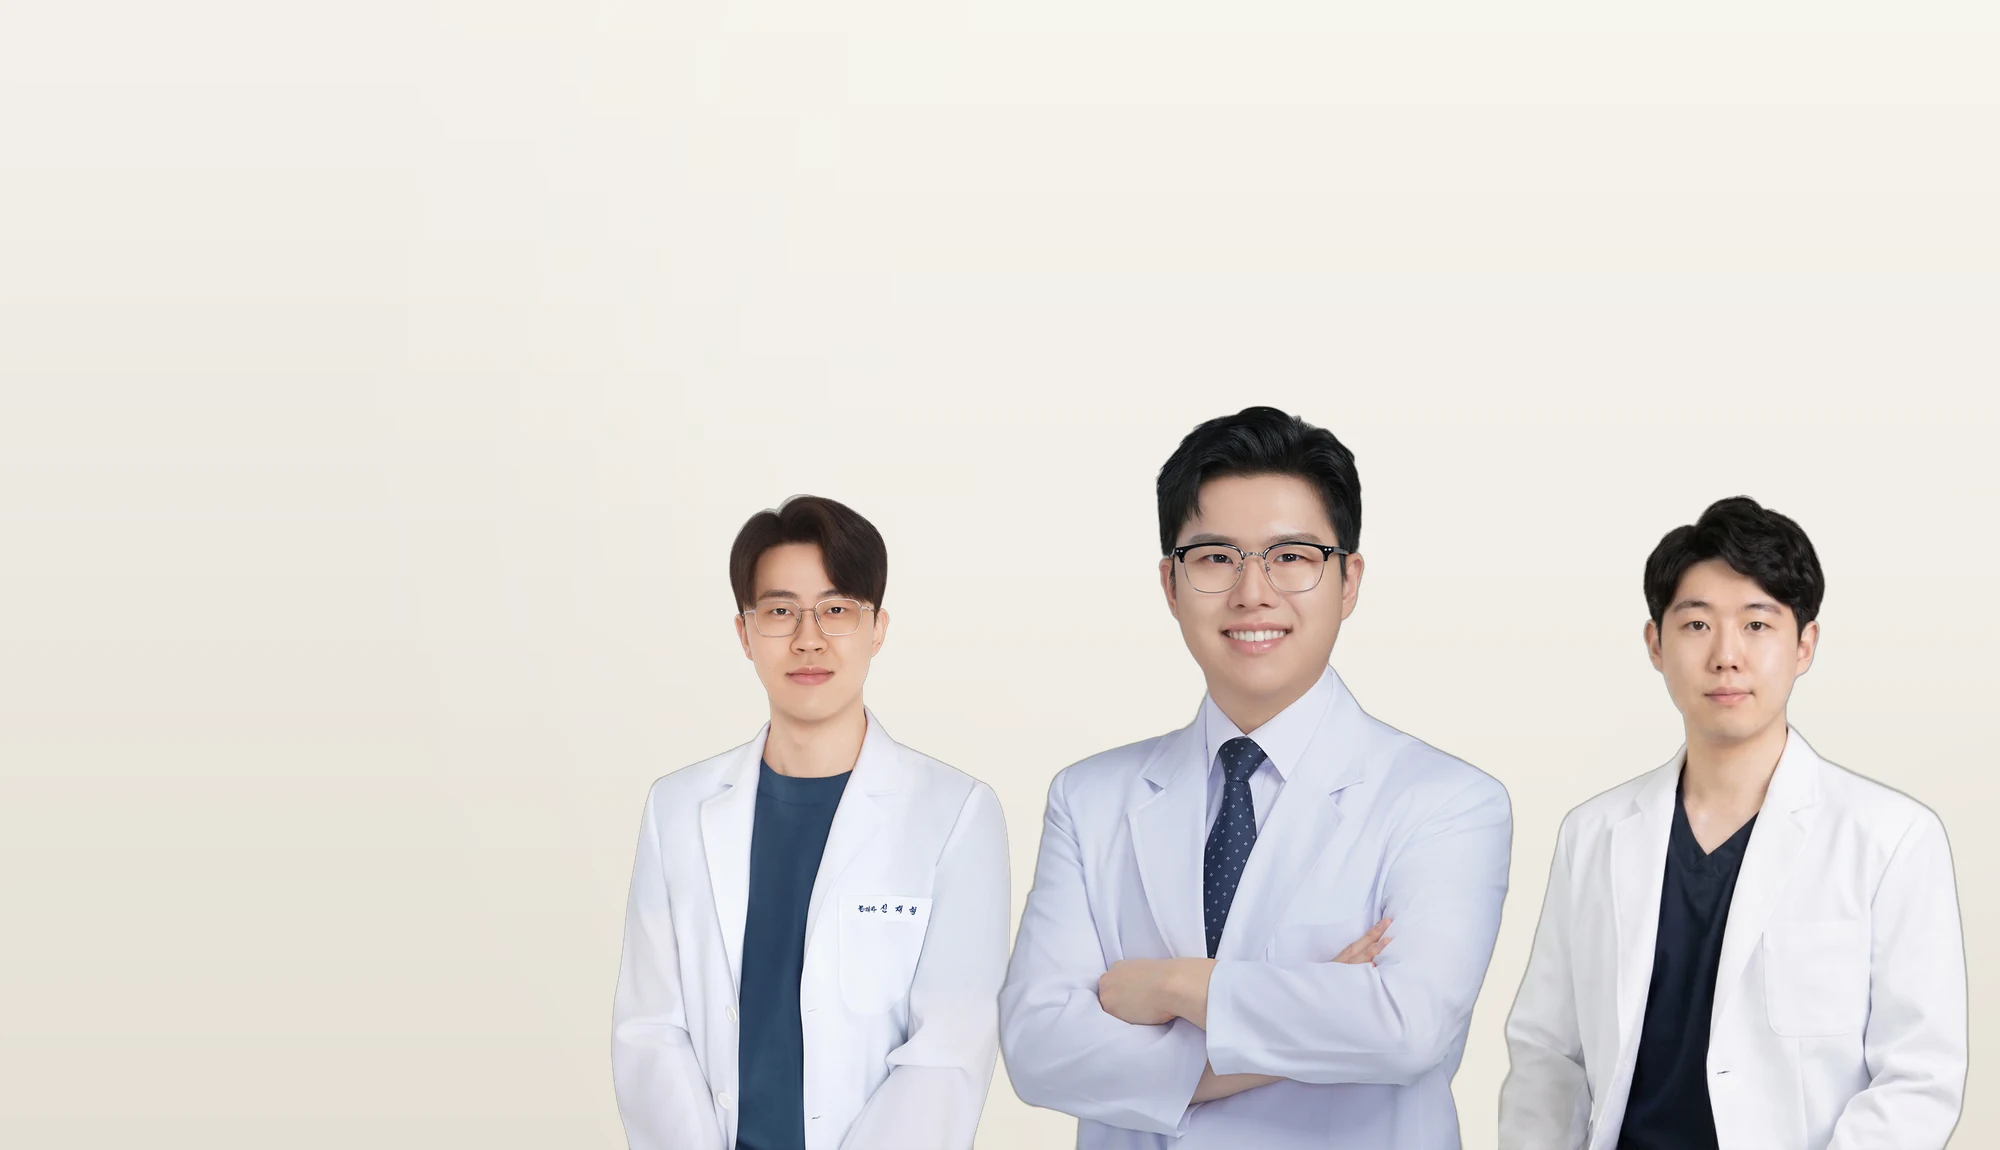
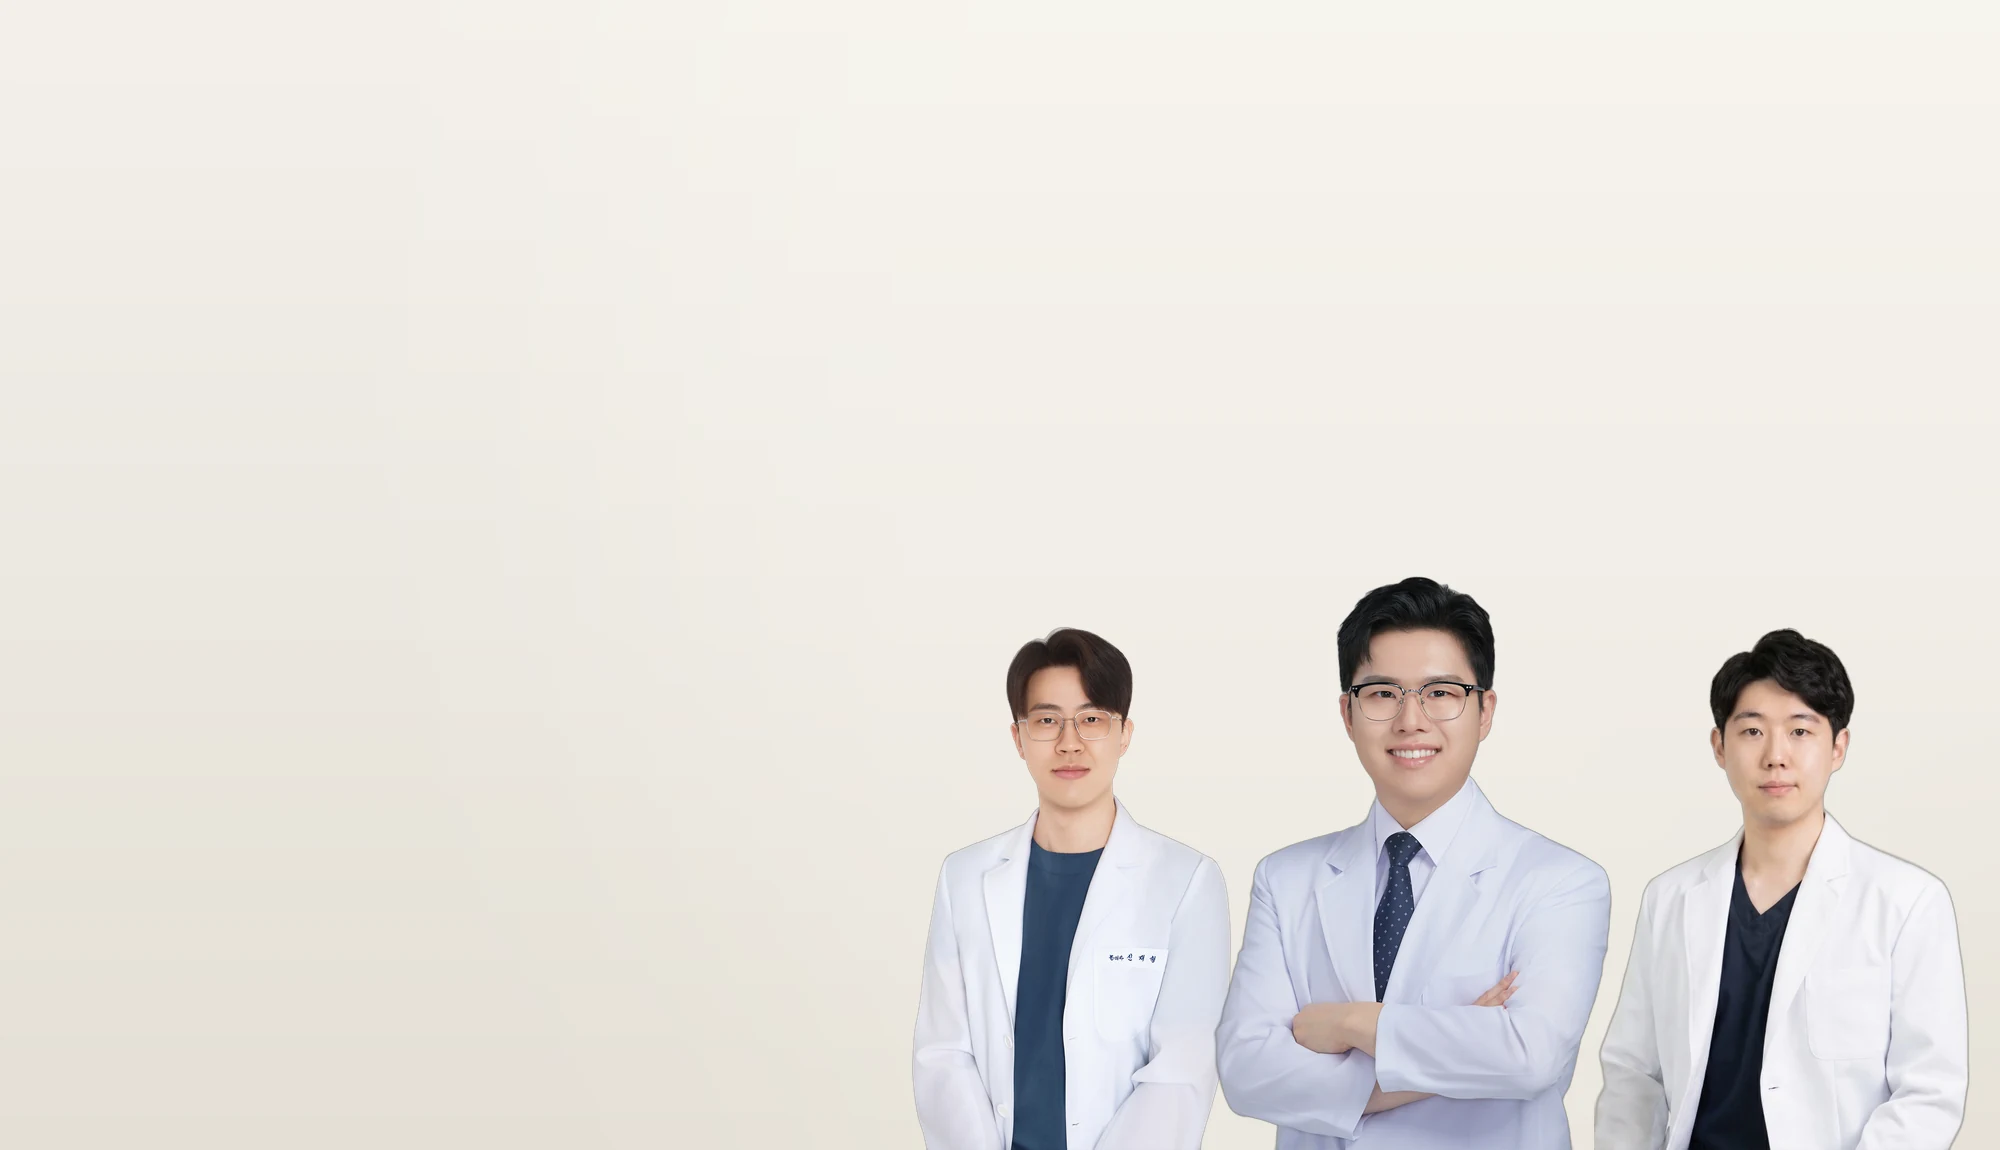
메인 히어로: 세 원장이 가려지지 않게 배치·그라데이션 조정, 모바일 전용 크롭 추가

Changed region(s): [[0.465, 0.3348, 0.992, 1.0], [0.31, 0.4261, 0.465, 1.0]]

diff --git a/docs/css/style.css b/docs/css/style.css
@@ -141,6 +141,7 @@ button { font-family: inherit; cursor: pointer; }
   display: flex; align-items: center; color: #fff; overflow: hidden;
 }
 .hero-media { position: absolute; inset: 0; }
+.hero-media picture { display: block; width: 100%; height: 100%; }
 .hero-media img { width: 100%; height: 100%; object-fit: cover; object-position: 72% 8%; filter: brightness(.97) saturate(.92); }
 .hero-media::after {
   content: ""; position: absolute; inset: 0;
@@ -163,7 +164,7 @@ button { font-family: inherit; cursor: pointer; }
 .hero-light { color: var(--ink); background: var(--ivory); }
 .hero-light .hero-media img { object-position: right bottom; object-fit: cover; filter: none; }
 .hero-light .hero-media::after {
-  background: linear-gradient(90deg, rgba(241,237,230,.96) 0%, rgba(241,237,230,.88) 24%, rgba(241,237,230,.45) 38%, rgba(241,237,230,0) 52%);
+  background: linear-gradient(90deg, rgba(241,237,230,.92) 0%, rgba(241,237,230,.78) 26%, rgba(241,237,230,.22) 40%, rgba(241,237,230,0) 47%);
 }
 .hero-light .hero-media::before { background: none; }
 .hero-light .hero-eyebrow { color: var(--gold); }
@@ -174,12 +175,23 @@ button { font-family: inherit; cursor: pointer; }
 .hero-light .hero-chips a:hover { background: #fff; border-color: var(--jade); color: var(--jade); }
 .hero-light .hero-scroll { color: rgba(36,35,33,.45); }
 @media (max-width: 860px) {
-  .hero-light .hero-media img { object-position: 74% bottom; }
-  .hero-light .hero-media::after {
-    background: linear-gradient(180deg, rgba(241,237,230,.97) 0%, rgba(241,237,230,.9) 42%, rgba(241,237,230,.35) 68%, rgba(241,237,230,0) 100%);
-  }
-  .hero-light .container { padding-bottom: 240px; }
-  .hero-light h1 { font-size: clamp(26px, 7vw, 36px); }
+  /* 모바일: 세 원장이 모두 보이도록 이미지를 하단에 꽉 차게 넣고, 문구는 그 위에 배치 */
+  .hero-light { min-height: 0; max-height: none; display: block; }
+  .hero-light .hero-media { position: absolute; top: auto; bottom: 0; left: 0; right: 0; height: 56vw; max-height: 320px; }
+  .hero-light .hero-media img { object-fit: cover; object-position: center top; }
+  .hero-light .hero-media::after { background: none; }
+  .hero-light .container { padding-top: 40px; padding-bottom: calc(56vw + 16px); }
+  .hero-light h1 { font-size: clamp(25px, 6.6vw, 34px); max-width: 100%; }
+  .hero-light .hero-desc { font-size: 14.5px; max-width: 100%; }
+  .hero-light .hero-chips { margin: 20px 0 22px; }
+  .hero-light .hero-chips a { font-size: 12.5px; padding: 6px 11px; }
+  .hero-light .btn-lg { padding: 13px 20px; font-size: 15px; }
+  .hero-light .hero-scroll { display: none; }
+}
+@media (max-width: 860px) and (min-width: 561px) {
+  .hero-light .container { padding-bottom: calc(42vw + 16px); }
+  .hero-light .hero-media { height: 42vw; }
+}
 }
 
 /* 히어로 아래 질환·증상 검색 */

diff --git a/docs/index.html b/docs/index.html
@@ -109,7 +109,10 @@
 <!-- 히어로 -->
 <section class="hero hero-light">
   <div class="hero-media">
-    <img src="images/hero/directors-team.webp" alt="연결한의원 청주오창 신재형·김현교·이상현 원장" fetchpriority="high">
+    <picture>
+      <source media="(max-width: 860px)" srcset="images/hero/directors-team-mobile.webp">
+      <img src="images/hero/directors-team.webp" alt="연결한의원 청주오창 신재형·김현교·이상현 원장" fetchpriority="high">
+    </picture>
   </div>
   <div class="container">
     <p class="hero-eyebrow">청주오창 · 연결한의원</p>

diff --git a/templates/index.html b/templates/index.html
@@ -3,7 +3,10 @@
 <!-- 히어로 -->
 <section class="hero hero-light">
   <div class="hero-media">
-    <img src="{{ site.hero_image }}" alt="연결한의원 청주오창 신재형·김현교·이상현 원장" fetchpriority="high">
+    <picture>
+      <source media="(max-width: 860px)" srcset="images/hero/directors-team-mobile.webp">
+      <img src="{{ site.hero_image }}" alt="연결한의원 청주오창 신재형·김현교·이상현 원장" fetchpriority="high">
+    </picture>
   </div>
   <div class="container">
     <p class="hero-eyebrow">청주오창 · 연결한의원</p>

diff --git a/tools/make_hero_team.py b/tools/make_hero_team.py
@@ -106,25 +106,46 @@ def main():
 
     # 인물 배치: 좌측은 카피 공간, 우측에 세 원장 (가운데 대표원장이 가장 크게)
     # 왼쪽부터 신재형 · 김현교(대표, 가장 크게) · 이상현 순으로 겹치지 않게 배치
-    order = [("shin", 0.88), ("kim", 1.00), ("lee", 0.88)]
+    order = [("shin", 0.93), ("kim", 1.02), ("lee", 0.93)]
     people = [(k, fit_height(cutout(k), round(H * hr))) for k, hr in order]
-    gap = -round(W * 0.012)          # 살짝 겹쳐 한 팀처럼 보이게
+    gap = -round(W * 0.018)          # 살짝 겹쳐 한 팀처럼 보이게
     total = sum(im.width for _, im in people) + gap * (len(people) - 1)
     # 우측 62% 영역 안에 들어오도록 축소
-    avail = round(W * 0.68)
+    avail = round(W * 0.53)
     if total > avail:
         k = avail / total
         people = [(key, im.resize((round(im.width * k), round(im.height * k)), Image.LANCZOS)) for key, im in people]
         gap = round(gap * k)
         total = sum(im.width for _, im in people) + gap * (len(people) - 1)
     x = round(W * 0.985) - total
+    placed = []
     for key, im in people:
         canvas.paste(im, (x, H - im.height), im)
+        placed.append((x, x + im.width))
         x += im.width + gap
 
     path = os.path.join(OUT, "directors-team.webp")
     canvas.save(path, "WEBP", quality=88, method=6)
     print("directors-team", canvas.size, os.path.getsize(path) // 1024, "KB")
+
+    # 모바일용: 인물만 타이트하게 담은 별도 이미지 (여백 없이)
+    mh = max(im.height for _, im in people)
+    mw = total
+    pad_x, pad_top = round(mw * 0.03), round(mh * 0.05)
+    mob = Image.new("RGB", (mw + pad_x * 2, mh + pad_top), BG_TOP)
+    g2 = Image.new("RGB", (1, mob.height))
+    for y in range(mob.height):
+        t = y / max(1, mob.height - 1)
+        g2.putpixel((0, y), tuple(round(BG_TOP[i] + (BG_BOT[i] - BG_TOP[i]) * t) for i in range(3)))
+    mob = g2.resize(mob.size)
+    mx = pad_x
+    for key, im in people:
+        mob.paste(im, (mx, mob.height - im.height), im)
+        mx += im.width + gap
+    mob = mob.resize((1200, round(mob.height * 1200 / mob.width)), Image.LANCZOS)
+    mp = os.path.join(OUT, "directors-team-mobile.webp")
+    mob.save(mp, "WEBP", quality=88, method=6)
+    print("directors-team-mobile", mob.size, os.path.getsize(mp) // 1024, "KB")
 
 
 if __name__ == "__main__":
